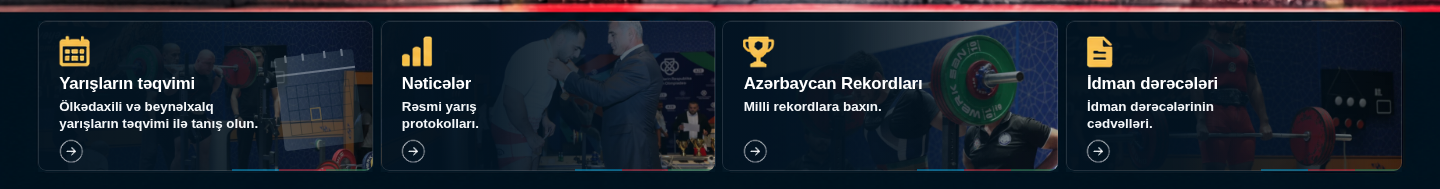
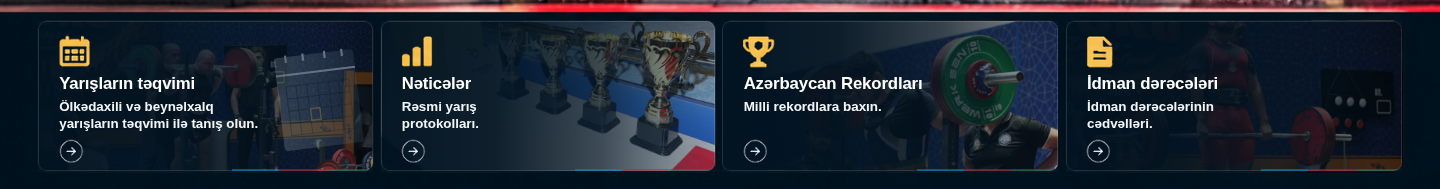
preview: replace only Results card background with actual competition awards

Changed region(s): [[0.375, 0.1058, 0.5, 0.9259]]

diff --git a/homepage-card-review/review.html b/homepage-card-review/review.html
@@ -1,3 +1,3 @@
 <!doctype html><html lang="en"><head><meta charset="utf-8"><meta name="viewport" content="width=device-width,initial-scale=1"><title>Homepage hero cards — review</title><style>
 *{box-sizing:border-box}body{margin:0;background:#eef2f5;color:#102839;font:16px/1.5 system-ui,sans-serif}.wrap{max-width:1500px;margin:auto;padding:32px 24px}h1{margin:0 0 8px;font-size:clamp(24px,3vw,36px)}p{margin:8px 0 20px;color:#526574}.tools{display:flex;flex-wrap:wrap;gap:10px;margin:24px 0}button,a{font:inherit}button,.link{border:1px solid #a7b8c4;border-radius:7px;padding:10px 16px;background:white;color:#102839;cursor:pointer;text-decoration:none}button[aria-pressed=true]{background:#06283d;color:white;border-color:#06283d}.compare{display:grid;grid-template-columns:1fr 1fr;gap:20px}figure{margin:0;padding:16px;background:white;border:1px solid #d5dfe6;border-radius:10px}figcaption{font-weight:700;margin-bottom:12px}figure img{display:block;width:100%;height:auto;border-radius:5px}.mobile figure img{width:min(100%,390px);margin:auto}.note{margin-top:24px;font-size:14px}@media(max-width:650px){.compare{grid-template-columns:1fr}.wrap{padding:24px 16px}}
-</style></head><body><main class="wrap"><h1>Homepage hero cards</h1><p>Compare the current cards with the proposed photography and HTML typography. This preview is separate from powerlifting.az.</p><div class="tools"><button type="button" data-mode="desktop" aria-pressed="true">Desktop</button><button type="button" data-mode="mobile" aria-pressed="false">Mobile</button><a class="link" href="index.html?v=2">Open proposed homepage</a><a class="link" href="before.html">Open current homepage</a></div><div class="compare"><figure><figcaption>Current</figcaption><img src="screenshots/desktop-before.png" data-version="before" alt="Current homepage cards"></figure><figure><figcaption>Proposed</figcaption><img src="screenshots/desktop-after.png?v=2" data-version="after" alt="Proposed homepage cards"></figure></div><p class="note">Exact requested Azerbaijani titles and descriptions are now HTML text. Approved icons, card dimensions and all four links are preserved. No production deployment or V2 admin changes are included.</p></main><script>document.querySelectorAll('[data-mode]').forEach(button=>button.addEventListener('click',()=>{document.querySelectorAll('[data-mode]').forEach(x=>x.setAttribute('aria-pressed',String(x===button)));document.querySelector('.compare').classList.toggle('mobile',button.dataset.mode==='mobile');document.querySelectorAll('[data-version]').forEach(x=>x.src='screenshots/'+button.dataset.mode+'-'+x.dataset.version+'.png?v=2');}));</script></body></html>
+</style></head><body><main class="wrap"><h1>Homepage hero cards</h1><p>Compare the current cards with the proposed photography and HTML typography. This preview is separate from powerlifting.az.</p><div class="tools"><button type="button" data-mode="desktop" aria-pressed="true">Desktop</button><button type="button" data-mode="mobile" aria-pressed="false">Mobile</button><a class="link" href="index.html?v=3">Open proposed homepage</a><a class="link" href="before.html">Open current homepage</a></div><div class="compare"><figure><figcaption>Current</figcaption><img src="screenshots/desktop-before.png" data-version="before" alt="Current homepage cards"></figure><figure><figcaption>Proposed</figcaption><img src="screenshots/desktop-after.png?v=3" data-version="after" alt="Proposed homepage cards"></figure></div><p class="note">Exact requested Azerbaijani titles and descriptions are now HTML text. Approved icons, card dimensions and all four links are preserved. No production deployment or V2 admin changes are included.</p></main><script>document.querySelectorAll('[data-mode]').forEach(button=>button.addEventListener('click',()=>{document.querySelectorAll('[data-mode]').forEach(x=>x.setAttribute('aria-pressed',String(x===button)));document.querySelector('.compare').classList.toggle('mobile',button.dataset.mode==='mobile');document.querySelectorAll('[data-version]').forEach(x=>x.src='screenshots/'+button.dataset.mode+'-'+x.dataset.version+'.png?v=3');}));</script></body></html>

diff --git a/homepage-card-review/assets/css/hero-cards.css b/homepage-card-review/assets/css/hero-cards.css
@@ -2,7 +2,7 @@
 .quick>img{height:auto}
 .quick .hit.q{background-image:none}
 .quick .q1{--face-left:1.936%;--face-width:100.105%;--photo:url('../images/hero-cards/calendar.webp');--icon:0%}
-.quick .q2{--face-left:2.772%;--face-width:100.975%;--photo:url('../images/hero-cards/results.webp');--icon:33.333333%}
+.quick .q2{--face-left:2.772%;--face-width:100.975%;--photo:url('../images/hero-cards/results-awards.webp');--icon:33.333333%}
 .quick .q3{--face-left:3.344%;--face-width:101.466%;--photo:url('../images/hero-cards/records.webp');--icon:66.666667%}
 .quick .q4{--face-left:4.223%;--face-width:97.239%;--photo:url('../images/hero-cards/qualification.webp');--icon:100%}
 .quick .card-face{position:absolute;left:var(--face-left);top:7.92%;width:var(--face-width);height:87.624%;border-radius:calc(100vw * .005637);overflow:hidden;container-type:inline-size;background-color:#031724;background-image:linear-gradient(90deg,#021321fa 0%,#021321f2 34%,#021321c2 66%,#02132155 100%),var(--photo);background-size:cover;background-position:center;border:0;box-shadow:inset 0 0 0 1px #ffffff20;box-sizing:border-box}

diff --git a/homepage-card-review/index.html b/homepage-card-review/index.html
@@ -61,7 +61,7 @@ a:focus-visible{outline:3px solid #55b8ff;outline-offset:3px}
 @media(max-width:820px){}
 </style>
 <link rel="stylesheet" href="assets/css/mobile.css">
-<link rel="stylesheet" href="assets/css/hero-cards.css">
+<link rel="stylesheet" href="assets/css/hero-cards.css?v=3">
 <script defer src="assets/js/mobile.js"></script>
 </head><body>
 
